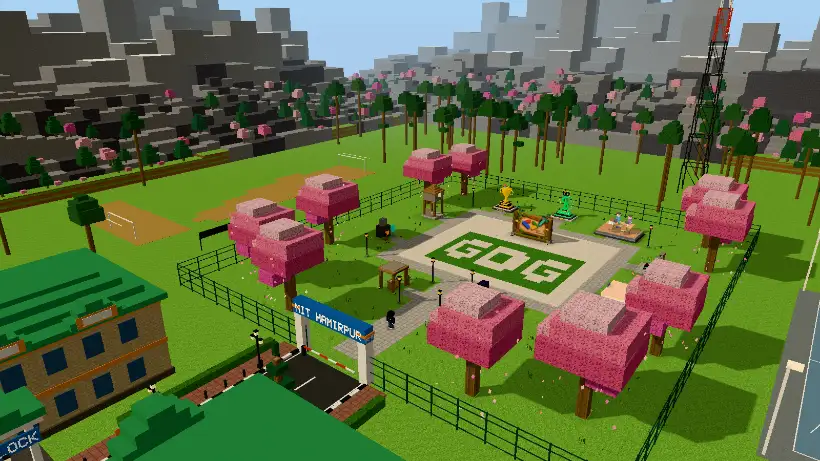
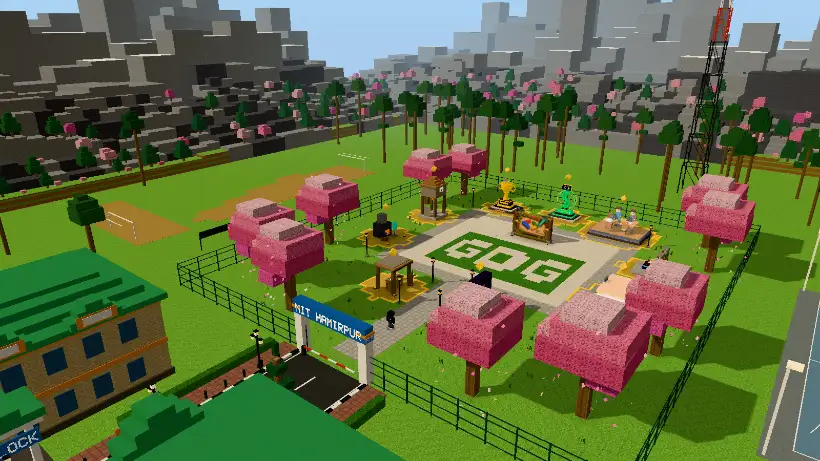
feat(world): make stations stand out with stages, rings and gems
Visitors could not tell the nine stations from the trees and lamps around
them. Every station is now drawn 1.25 times its build size (STATION_SCALE
in layout.js; kit.js scales boxes, models, footprints, lights and click
boxes), and world/markers.js gives each one:

- a round gold stage of island blocks, filled to its edge even where it
  reaches over the ring road, shown in gold on the radar;
- a glowing gold outline round the stage that slowly pulses;
- a gold gem floating over the roof that bobs and turns.

Name tags are larger, framed in the same gold, point down at the gem with
a gold arrow and bob gently. Gold now marks stations only.

The markers join the lamps in the static batch, so draw calls stay at 60;
triangles go from about 115k to 119k. The pulse updates only the tagged
instances and allocates nothing per frame. Visitors stand 3.5 m from a
station's centre, inside its ring. The page view hero image is re-shot to
show the new stations.

diff --git a/world/markers.js b/world/markers.js
@@ -1,0 +1,90 @@
+// Station markers: what sets the nine stations apart from the trees, lamps
+// and campus around them. Each station stands on a round paved stage with a
+// glowing gold outline, and a gold gem floats over its roof, turning slowly,
+// like a waypoint in a game. The stage is the island's own top blocks and
+// every glowing box joins the lamps in the static batch, so the markers cost
+// no draw calls; setup() makes the outline breathe and the gems bob and turn.
+import * as THREE from 'three';
+import { PLAN, STATION_SCALE } from './layout.js';
+import { BUILDS } from './stations/index.js';
+
+// One colour for "a place you can visit"; nothing else on the island glows gold.
+export const MARK = 0xffc93c;
+const RING = 'station-ring', GEM = 'station-gem';
+// The gem floats this far over the roof; the name tag (site/tags.js) sits above it.
+export const GEM_LIFT = 0.95;
+const GEM_SIZE = 0.6;
+
+// The stage reaches past each station's footprint to where a visitor
+// stands to open it.
+export const STAGES = PLAN.map(p => {
+  const [w, h, d] = (BUILDS[p.id]?.size || [3, 3, 3]).map(v => v * STATION_SCALE);
+  // At least 3.6 m, so the spot where a visitor stands (3.5 m out) is inside the ring.
+  return { id: p.id, x: p.x, z: p.z, top: h, r: Math.max(Math.max(w, d) / 2 + 1.6, 3.6) };
+});
+
+// Whether the block at (x, z) belongs to a stage: its centre is inside the circle.
+export const onStage = (x, z) => STAGES.some(s => Math.hypot(x + 0.5 - s.x, z + 0.5 - s.z) <= s.r);
+const stageOf = (s, x, z) => Math.hypot(x + 0.5 - s.x, z + 0.5 - s.z) <= s.r;
+
+export function defineStage(grid) {
+  grid.define('stage', { tex: { top: 'travertine', side: 'stone', bottom: 'stone' }, tint: 0xf2cf6e, map: '#e9c46a' });
+}
+
+export function buildMarkers(B) {
+  const glow = { tex: 'paint', tint: MARK, emissive: 1 };
+  const gem = { tex: 'paint', tint: MARK, emissive: 0.55 };
+  for (const s of STAGES) {
+    // A pixel outline along the stage's edge: one strip on every block side
+    // that faces out of the circle.
+    const x0 = Math.floor(s.x - s.r - 1), x1 = Math.ceil(s.x + s.r + 1);
+    const z0 = Math.floor(s.z - s.r - 1), z1 = Math.ceil(s.z + s.r + 1);
+    for (let x = x0; x <= x1; x++) for (let z = z0; z <= z1; z++) {
+      if (!stageOf(s, x, z)) continue;
+      const t = 0.26, y = 0, h = 0.05, o = { tag: RING };
+      if (!stageOf(s, x, z - 1)) B.box(x + 0.5, y, z + t / 2, 1, h, t, glow, o);
+      if (!stageOf(s, x, z + 1)) B.box(x + 0.5, y, z + 1 - t / 2, 1, h, t, glow, o);
+      if (!stageOf(s, x - 1, z)) B.box(x + t / 2, y, z + 0.5, t, h, 1, glow, o);
+      if (!stageOf(s, x + 1, z)) B.box(x + 1 - t / 2, y, z + 0.5, t, h, 1, glow, o);
+    }
+  }
+  // The gems come last, so their instances sit together; setup() places them.
+  for (const s of STAGES) B.box(s.x, s.top + GEM_LIFT, s.z, GEM_SIZE, GEM_SIZE, GEM_SIZE, gem, { tag: GEM });
+}
+
+// The outline breathes over about three seconds; each gem bobs and turns.
+// Only the tagged instances are touched, and nothing is allocated per frame.
+export function markerPulse(world) {
+  let mesh = null;
+  world.groups.static?.traverse(o => {
+    if (!mesh && o.isInstancedMesh && o.userData.tags?.includes(RING)) mesh = o;
+  });
+  if (!mesh) return () => {};
+  const tags = mesh.userData.tags, glow = mesh.geometry.getAttribute('iEmissive');
+  const rings = [], gems = [];
+  tags.forEach((t, i) => (t === RING ? rings : t === GEM ? gems : null)?.push(i));
+  const r0 = rings[0], r1 = rings[rings.length - 1], g0 = gems[0], g1 = gems[gems.length - 1];
+  // A gem stands on a corner, like a diamond: tip it 45° and then ~35°.
+  const tilt = new THREE.Quaternion().setFromEuler(new THREE.Euler(Math.atan(Math.SQRT1_2), 0, Math.PI / 4));
+  const spin = new THREE.Quaternion(), turn = new THREE.Quaternion(), up = new THREE.Vector3(0, 1, 0);
+  const pos = new THREE.Vector3(), size = new THREE.Vector3().setScalar(GEM_SIZE), m = new THREE.Matrix4();
+  let time = 0;
+  return dt => {
+    time += dt;
+    const k = 0.7 + 0.3 * Math.sin(time * 2.1);
+    for (let n = 0; n < rings.length; n++) glow.array[rings[n]] = k;
+    glow.clearUpdateRanges();
+    glow.addUpdateRange(r0, r1 - r0 + 1);
+    glow.needsUpdate = true;
+    for (let n = 0; n < gems.length; n++) {
+      const s = STAGES[n];
+      pos.set(s.x, s.top + GEM_LIFT + GEM_SIZE / 2 + 0.12 * Math.sin(time * 1.8 + n), s.z);
+      spin.setFromAxisAngle(up, time * 0.9 + n);
+      turn.multiplyQuaternions(spin, tilt);
+      mesh.setMatrixAt(gems[n], m.compose(pos, turn, size));
+    }
+    mesh.instanceMatrix.clearUpdateRanges();
+    mesh.instanceMatrix.addUpdateRange(g0 * 16, (g1 - g0 + 1) * 16);
+    mesh.instanceMatrix.needsUpdate = true;
+  };
+}

diff --git a/world/kit.js b/world/kit.js
@@ -9,6 +9,7 @@
 import * as THREE from 'three';
 import { mergeGeometries } from 'three/addons/utils/BufferGeometryUtils.js';
 import { yawOf, toWorld } from './frame.js';
+import { STATION_SCALE } from './layout.js';
 
 export { FACING, yawOf, toWorld } from './frame.js';
 
@@ -83,9 +84,11 @@ function bounds(x, z, yaw, lx, lz, w, d) {
 
 // out = { B, obstacles, hotspots, bakes, planes }: the lists build.js returns.
 // station = { id, x, z, face }, def = { size: [w, h, d], build(k) }.
+// Every station is drawn STATION_SCALE times its build size (layout.js), so
+// the stations stand out from the trees and lamps; builds stay in metres.
 export function placeStation(out, station, def) {
   const { B, obstacles, hotspots, bakes, planes, grid, forest } = out;
-  const { id, x, z } = station, yaw = yawOf(station.face);
+  const { id, x, z } = station, yaw = yawOf(station.face), s = STATION_SCALE;
   const [sw, sh, sd] = def.size;
   const k = {
     M,
@@ -95,13 +98,13 @@ export function placeStation(out, station, def) {
     box: (...args) => B.box(...args),
     // Something the player can't walk through, padded 5 cm as AGENTS.md asks.
     solid(lx, lz, w, d, level = 0, height = sh) {
-      const b = bounds(x, z, yaw, lx, lz, w + 0.1, d + 0.1);
+      const b = bounds(x, z, yaw, lx * s, lz * s, w * s + 0.1, d * s + 0.1);
       obstacles.push({ ...b, level });
       if (grid) {
         const x0 = Math.floor(b.x0), x1 = Math.ceil(b.x1);
         const z0 = Math.floor(b.z0), z1 = Math.ceil(b.z1);
         const y0 = Math.floor(level);
-        const y1 = Math.ceil(level + height);
+        const y1 = Math.ceil(level + height * s);
         grid.fill(x0, y0, z0, x1, y1, z1, 'stone', 'forestCollision');
         if (forest?.tops) {
           forest.tops.push({ x0, x1, z0, z1, y: y1, site: id });
@@ -110,19 +113,20 @@ export function placeStation(out, station, def) {
     },
     // A lamp baked into the night lighting. dir is a local direction or null.
     light(lx, y, lz, power, radius, dir = null) {
-      const [wx, wz] = toWorld(x, z, yaw, lx, lz);
+      const [wx, wz] = toWorld(x, z, yaw, lx * s, lz * s);
       let direction = null;
       if (dir) {
         const [dx, dz] = toWorld(0, 0, yaw, dir[0], dir[2]);
         direction = [dx, dir[1], dz];
       }
-      bakes.push({ id: `${id}-${bakes.length}`, position: [wx, y, wz], power, radius, direction });
+      bakes.push({ id: `${id}-${bakes.length}`, position: [wx, y * s, wz], power, radius: radius * s, direction });
     },
     // A THREE.Mesh placed in station space (signs, posters). Each one is a draw call.
     plane(mesh, lx, y, lz, ry = 0) {
-      const [wx, wz] = toWorld(x, z, yaw, lx, lz);
-      mesh.position.set(wx, y, wz);
+      const [wx, wz] = toWorld(x, z, yaw, lx * s, lz * s);
+      mesh.position.set(wx, y * s, wz);
       mesh.rotation.y = yaw + ry;
+      mesh.scale.multiplyScalar(s);
       planes.push(mesh);
       return mesh;
     },
@@ -147,14 +151,18 @@ export function placeStation(out, station, def) {
         // Recessed self-illuminated glowing lens
         B.box(cx, 0.03, cz, 0.20, 0.03, 0.20, glow);
         // Baked upward light volume cone
-        const [wx, wz] = toWorld(x, z, yaw, cx, cz);
+        const [wx, wz] = toWorld(x, z, yaw, cx * s, cz * s);
         bakes.push({ id: `${id}-c${bakes.length}`, position: [wx, 0.15, wz], power: 2.2, radius: 5.5, direction: [0, 1, 0] });
       }
     },
   };
-  B.at(x, 0, z, yaw, () => def.build(k));
+  B.at(x, 0, z, yaw, () => {
+    B.stack.push(B.stack[B.stack.length - 1].clone().scale(new THREE.Vector3(s, s, s)));
+    def.build(k);
+    B.stack.pop();
+  });
   // Click and proximity box: the station's whole size.
-  const [w, h, d] = def.size;
+  const [w, h, d] = def.size.map(v => v * s);
   const r = bounds(x, z, yaw, 0, 0, w, d);
   hotspots.push({ id, box: new THREE.Box3(new THREE.Vector3(r.x0, 0, r.z0), new THREE.Vector3(r.x1, h, r.z1)) });
 }

diff --git a/site/site.css b/site/site.css
@@ -8,7 +8,9 @@
   --cta: #3c8527;
   --cta-hover: #4a9c32;
   --cta-edge: #1f4a12;
-  --tag-bg: rgba(14, 16, 14, .62);
+  --tag-bg: rgba(14, 16, 14, .8);
+  /* Station gold: the outline, gem (world/markers.js) and name tag share it. */
+  --mark: #ffc93c;
   --scrim: rgba(12, 14, 12, .78);
   --sword-cursor: url("../assets/cursor/sword.png") 0 0;
 }
@@ -109,15 +111,18 @@ body.hero-on #loading .bar { display: none; }
 body.reading #siteTags, body.plain #siteTags { display: none; }
 .site-tag {
   position: absolute; left: 0; top: 0; pointer-events: auto; will-change: transform;
-  display: flex; align-items: center; gap: 6px; padding: 5px 9px 5px 6px; border: 0;
+  display: flex; align-items: center; gap: 8px; padding: 7px 12px 7px 8px; border: 0;
   background: var(--tag-bg); color: #fff; white-space: nowrap;
-  font: 700 14px/1 var(--text); text-shadow: 1px 1px 0 #000;
-  transition: background .12s;
+  font: 700 16px/1 var(--text); letter-spacing: .3px; text-shadow: 1px 1px 0 #000;
+  box-shadow: 0 0 0 2px #000, inset 0 0 0 2px var(--mark);
+  transition: background-color .12s, color .12s;
+  /* A slow bob, on translate so it adds to the position set in transform. */
+  animation: tag-bob 2.6s ease-in-out infinite;
 }
-.site-tag i { width: 20px; height: 20px; image-rendering: pixelated; background: center / contain no-repeat; }
-.site-tag::after { content: ""; position: absolute; left: 50%; top: 100%; margin-left: -5px; border: 5px solid transparent; border-top-color: var(--tag-bg); }
-.site-tag:hover, .site-tag.hot { background: var(--accent); }
-.site-tag:hover::after, .site-tag.hot::after { border-top-color: var(--accent); }
+.site-tag i { width: 24px; height: 24px; image-rendering: pixelated; background: center / contain no-repeat; }
+.site-tag::after { content: ""; position: absolute; left: 50%; top: calc(100% + 2px); margin-left: -7px; border: 7px solid transparent; border-top-color: var(--mark); }
+.site-tag:hover, .site-tag.hot { background: var(--mark); color: #1d1a10; text-shadow: none; }
+@keyframes tag-bob { 50% { translate: 0 -5px; } }
 .site-tag[hidden] { display: none; }
 
 /* ---------- First-visit hint ---------- */
@@ -171,12 +176,13 @@ body.reading #siteHint { display: none; }
   .hero-count div { min-width: 0; flex: 1; }
   .hero-count b { font-size: 20px; }
   .hero-actions .mc-button { flex: 1; }
-  .site-tag { font-size: 12px; padding: 4px 7px 4px 5px; }
-  .site-tag i { width: 16px; height: 16px; }
+  .site-tag { gap: 6px; font-size: 13px; padding: 5px 9px 5px 6px; }
+  .site-tag i { width: 18px; height: 18px; }
+  .site-tag::after { margin-left: -5px; border-width: 5px; }
   /* Phones keep the bottom for the Dock and the radar: the hint goes under the switches. */
   #siteHint { top: calc(max(12px, env(safe-area-inset-top)) + var(--bar-h) + 56px); bottom: auto; font-size: 13px; }
   .hero-actions .mc-button { padding: 0 12px; white-space: nowrap; }
 }
 @media (prefers-reduced-motion: reduce) {
-  .site-tag { transition: none; }
+  .site-tag { transition: none; animation: none; }
 }

diff --git a/world/build.js b/world/build.js
@@ -9,6 +9,7 @@ import { BUILDS } from './stations/index.js';
 import { surfaceAt, buildDecor } from './grounds.js';
 import { buildMountains } from './mountains.js';
 import { buildCampus } from './campus.js';
+import { defineStage, buildMarkers, markerPulse } from './markers.js';
 
 let activePetals = null;
 
@@ -25,6 +26,7 @@ const edge = {
 };
 
 export function build({ grid, layer, materials, scene }) {
+  defineStage(grid);
   buildIsland(grid, ISLAND, { surfaceAt, corner: 10, wobble: 0 });
   const out = { B: new BoxBatch(layer), obstacles: [], hotspots: [], bakes: [], planes: [], grid };
   const forest = buildSakuraForest(grid, layer, TREES, out.B);
@@ -36,6 +38,8 @@ export function build({ grid, layer, materials, scene }) {
     else console.warn(`No build for station "${station.id}" in world/stations/index.js`);
   }
   buildDecor({ ...out, layer, materials });
+  // A stage, a gold outline and a beacon beam for every station.
+  buildMarkers(out.B);
 
   // Outside the wall: the NIT Hamirpur campus round the venue ground, then
   // mountains and hills beyond it. Pure backdrop — no sites, so none of it
@@ -55,13 +59,15 @@ export function build({ grid, layer, materials, scene }) {
   };
 }
 
-export function setup({ player, sound }) {
+export function setup({ player, sound, world }) {
+  const pulse = markerPulse(world);
   const minX = ISLAND.x0 + 0.5, maxX = ISLAND.x1 - 0.5, minZ = ISLAND.z0 + 0.5, maxZ = ISLAND.z1 - 0.5;
   let stepClock = 0;
   let lastX = player.pos.x, lastZ = player.pos.z;
   return {
     update(dt) {
       if (activePetals) activePetals.update(dt);
+      pulse(dt);
 
       // A last guard in case flight or a zip slips past the edge.
       const p = player.pos;

diff --git a/world/layout.js b/world/layout.js
@@ -18,9 +18,13 @@ export const ISLAND = { x0: -25, x1: 25, z0: -26, z1: 29 };
 // Visitors start on the avenue, facing north towards the plaza.
 export const SPAWN = { x: 0, z: 21, heading: Math.PI };
 
+// Stations are drawn this many times their build size (world/kit.js), so they
+// read as the island's landmarks next to the trees and lamps.
+export const STATION_SCALE = 1.25;
+
 // Stations in tour order: the Dock, the top bar and "Next" all follow it.
 // face: the side the station's front looks towards (south, east, north, west).
-// approach: how far in front of the centre a visitor stands (default 2.8 m).
+// approach: how far in front of the centre a visitor stands (default 3.5 m).
 export const PLAN = [
   { id: 'welcome', en: 'Welcome', icon: 'scroll', x: -5.5, z: 14, face: 'east' },
   { id: 'tracks', en: 'Tracks', icon: 'works', x: -16, z: 3, face: 'east' },
@@ -33,7 +37,7 @@ export const PLAN = [
   { id: 'register', en: 'Register', icon: 'seal', x: 5.5, z: 14, face: 'west' },
 ];
 
-const standIn = (p, approach = p.approach ?? 2.8) => toWorld(p.x, p.z, FACING[p.face], 0, approach);
+const standIn = (p, approach = p.approach ?? 3.5) => toWorld(p.x, p.z, FACING[p.face], 0, approach);
 
 // What the engine reads: where to stand (at) and what to look at (look).
 export const STATIONS = [

diff --git a/world/grounds.js b/world/grounds.js
@@ -9,6 +9,7 @@ import { rng, canvasTexture } from '@engine/world/textures.js';
 import { M } from './kit.js';
 import { FACING } from './frame.js';
 import { PLAN, RING, AVENUE, MAZE, LAMPS, TREES, SIGNBOARD } from './layout.js';
+import { onStage } from './markers.js';
 
 // ---------- GDG Lawn Lettering ----------
 // 17 columns (x from -8 to 8), 11 rows (z from -6 to 4).
@@ -52,6 +53,9 @@ const onWalkway = (x, z) => walkways.some(w => w(x + 0.5, z + 0.5));
 export function surfaceAt(x, z) {
   if (inRect(MAZE, x, z)) return isGDG(x, z) ? 'travertine' : 'hedge';
   if (inRect(RING.inner, x, z)) return 'travertine';
+  // Each station stands on a round stage (world/markers.js), filled to its
+  // gold outline even where it reaches over the ring road.
+  if (onStage(x, z)) return 'stage';
   if (inRect(RING.outer, x, z) || inRect(AVENUE, x, z) || onWalkway(x, z)) return 'pavers';
   return 'grass';
 }

diff --git a/site/tags.js b/site/tags.js
@@ -2,6 +2,7 @@
 import * as THREE from 'three';
 import { PLAN } from '@world/layout.js';
 import { icon } from '@engine/ui/icons.js';
+import { GEM_LIFT } from '@world/markers.js';
 import { isHeroOn, hideHero } from './hero.js';
 
 const $ = s => document.querySelector(s);
@@ -25,7 +26,8 @@ export function initTags({ h, onVisit, onUserInteract }) {
     b.addEventListener('click', () => onVisit(p.id));
     layer.append(b);
     const c = hs.box.getCenter(new THREE.Vector3());
-    return { id: p.id, el: b, at: new THREE.Vector3(c.x, hs.box.max.y + 0.45, c.z), shown: true, w: 0, h: 0 };
+    // Above the station's floating gem (world/markers.js).
+    return { id: p.id, el: b, at: new THREE.Vector3(c.x, hs.box.max.y + GEM_LIFT + 1.05, c.z), shown: true, w: 0, h: 0 };
   }).filter(Boolean);
 
   const v = new THREE.Vector3();

diff --git a/world/README.md b/world/README.md
@@ -12,7 +12,8 @@ same file. 1 block = 1 m; x points east, z points south, y points up.
 | `campus.js` | NIT Hamirpur round the venue ground (backdrop, not walkable): fence and main gate, the road with Admin Block, Central Block and New Lecture Hall, basketball court and gallery, practice field, communication tower, chir pines | Landscape |
 | `mountains.js` | Mountains and hills beyond the campus; they start at `CAMPUS_REACH` from `campus.js` | Landscape |
 | `sakura.js` | Sakura trees on the ground and their falling petals | Landscape |
-| `kit.js` | Shared materials (`M`) and the station placement helper | Rarely |
+| `markers.js` | What marks a station: its gold stage, the glowing outline and the floating gem, and their animation | Rarely |
+| `kit.js` | Shared materials (`M`) and the station placement helper (draws each station at `STATION_SCALE` from `layout.js`) | Rarely |
 | `frame.js` | Facing names and local-to-world maths | Rarely |
 | `build.js` | Puts it all together; keeps the player on the island | Rarely |
 | `../index.html` | Card text for each station (`<article data-station="<id>">`) and the hero | Content |
@@ -25,6 +26,13 @@ and **local +z is its front**, the side that faces the path. `layout.js` turns
 the station with `face: 'south' | 'east' | 'north' | 'west'`; the kit rotates
 the boxes, the footprint, the lights and the click box to match. Moving or
 turning a station never needs changes in its build file.
+
+Builds are written in real metres, and the kit draws every station at
+`STATION_SCALE` (1.25) times that size, footprint, lights and click box
+included, so stations stand out from the trees and lamps. `markers.js` then
+puts each one on a round gold stage with a glowing outline and floats a gold
+gem over its roof; the name tag in `site/tags.js` sits above the gem. Gold
+glow marks stations only, so keep other lights warm white or orange.
 
 ```js
 // world/stations/example.js
@@ -51,9 +59,10 @@ in `kit.js` so the island keeps one palette; add new ones there.
    name from `ART` in `engine/ui/icons.js`.
 4. Add `<article class="page" id="<id>" data-station="<id>">` with an `<h2>`
    to `index.html`.
-5. `grounds.js` paves a walkway from the station's front automatically. Keep
-   about 1.5 m clear in front of the station: visitors stand at
-   `approach` (default 2.8 m) from its centre.
+5. `grounds.js` paves a walkway from the station's front, and `markers.js`
+   gives it a stage, outline and gem, automatically. Keep about 1.5 m clear
+   in front of the scaled station: visitors stand at `approach` (default
+   3.5 m) from its centre.
 
 ## Checking your change
 
